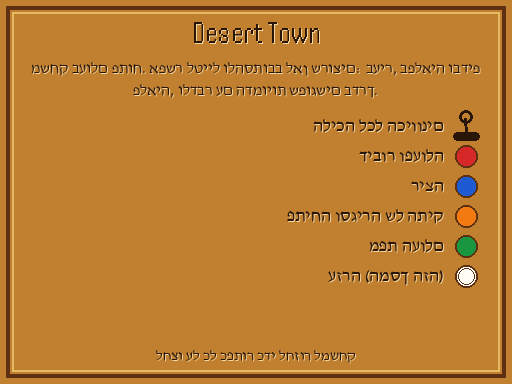
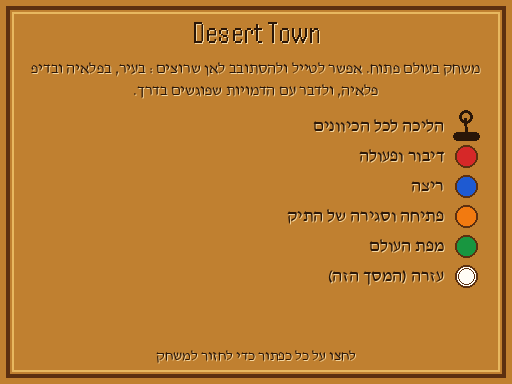
Draw help-slide Hebrew once so the letters are not reversed.
Pillow raqm already applies the bidi algorithm. Passing python-bidi's visual string through it reversed every line and mirrored parentheses. The slides now take the logical text from help_slide.txt with a single right-to-left direction.

diff --git a/game-files/tests/test_plugin_rules.py b/game-files/tests/test_plugin_rules.py
@@ -228,6 +228,45 @@ class PluginRuleTests(unittest.TestCase):
                         reds.append(x)
             self.assertTrue(reds, "help slide draws the red action circle on the right")
             self.assertGreater(min(reds), 430)
+        arcade_dir = ROOT / "Plugins" / "DesertTownArcade"
+        slide_py = (arcade_dir / "slide_text.py").read_text(encoding="utf-8")
+        render_py = (arcade_dir / "render_help_slide.py").read_text(encoding="utf-8")
+        self.assertNotIn("get_display(", slide_py)
+        self.assertNotIn("get_display(", render_py)
+        self.assertIn('return "rtl" if rtl else "ltr"', slide_py)
+        self.assert_logical_hebrew_starts_on_the_right()
+
+    def assert_logical_hebrew_starts_on_the_right(self):
+        """ריצה must paint resh (ר) on the right. A second bidi pass paints it on the left."""
+        from PIL import Image, ImageChops, ImageDraw
+
+        sys.path.insert(0, str(ROOT / "Plugins" / "DesertTownArcade"))
+        from slide_text import draw_text, font
+
+        face = font("hebrew.ttf", 48)
+
+        def ink(text, rtl):
+            image = Image.new("L", (240, 80), 0)
+            drawing = ImageDraw.Draw(image)
+            draw_text(drawing, text, (220, 40), face, 255, rtl, "rm", shadow=None)
+            box = image.getbbox()
+            return image.crop(box)
+
+        def mismatch(left, right):
+            right = right.resize(left.size)
+            diff = ImageChops.difference(left, right)
+            return sum(i * n for i, n in enumerate(diff.histogram()))
+
+        word = ink("ריצה", True)
+        resh = ink("ר", False)
+        heh = ink("ה", False)
+        side_w = min(resh.size[0] + 4, word.size[0] // 2)
+        right_side = word.crop((word.size[0] - side_w, 0, word.size[0], word.size[1]))
+        self.assertLess(
+            mismatch(right_side, resh),
+            mismatch(right_side, heh),
+            "the first letter of ריצה is not on the right",
+        )
 
     def test_decision_behavior(self):
         if shutil.which("ruby"):

diff --git a/game-files/Plugins/DesertTownArcade/slide_text.py b/game-files/Plugins/DesertTownArcade/slide_text.py
@@ -4,7 +4,6 @@ from __future__ import annotations
 
 from pathlib import Path
 
-from bidi.algorithm import get_display
 from PIL import Image, ImageDraw, ImageFont
 
 SCREEN = (512, 384)
@@ -48,12 +47,15 @@ def font(name: str, size: int) -> ImageFont.FreeTypeFont:
     return ImageFont.truetype(str(FONT_DIR / name), size)
 
 
-def visual(text: str, rtl: bool) -> str:
-    return get_display(text, base_dir="R" if rtl else "L")
+def text_direction(rtl: bool) -> str:
+    # Pillow is built with libraqm, which already applies the bidi algorithm.
+    # Pass logical Hebrew and one direction. Reversing the letters first
+    # draws every one backwards and mirrors parentheses.
+    return "rtl" if rtl else "ltr"
 
 
 def text_width(draw: ImageDraw.ImageDraw, text: str, face: ImageFont.FreeTypeFont, rtl: bool) -> float:
-    return draw.textlength(visual(text, rtl), font=face)
+    return draw.textlength(text, font=face, direction=text_direction(rtl))
 
 
 def wrap_rtl(draw: ImageDraw.ImageDraw, text: str, face: ImageFont.FreeTypeFont, max_width: int) -> list[str]:
@@ -74,11 +76,11 @@ def wrap_rtl(draw: ImageDraw.ImageDraw, text: str, face: ImageFont.FreeTypeFont,
 
 
 def draw_text(draw, text, xy, face, fill, rtl, anchor, shadow=SHADOW):
-    shown = visual(text, rtl)
+    direction = text_direction(rtl)
     x, y = xy
     if shadow is not None:
-        draw.text((x + 1, y + 1), shown, font=face, fill=shadow, anchor=anchor)
-    draw.text((x, y), shown, font=face, fill=fill, anchor=anchor)
+        draw.text((x + 1, y + 1), text, font=face, fill=shadow, anchor=anchor, direction=direction)
+    draw.text((x, y), text, font=face, fill=fill, anchor=anchor, direction=direction)
 
 
 def new_canvas() -> tuple[Image.Image, ImageDraw.ImageDraw]:

diff --git a/game-files/Plugins/DesertTownArcade/render_help_slide.py b/game-files/Plugins/DesertTownArcade/render_help_slide.py
@@ -6,8 +6,9 @@ Edit help_slide.txt, then from the repo root:
     python3 game-files/Plugins/DesertTownArcade/render_help_slide.py
 
 Writes game-files/Graphics/Pictures/DesertTownHelp.png (512x384, the game
-screen). Hebrew is drawn right-to-left with python-bidi. The game shows that
-PNG and does not render this text itself.
+screen). Hebrew is passed through in logical order. Pillow's raqm layout
+draws it right to left, including parentheses. Do not reverse the letters
+first. The game shows the PNG and does not render this text itself.
 """
 
 from __future__ import annotations
